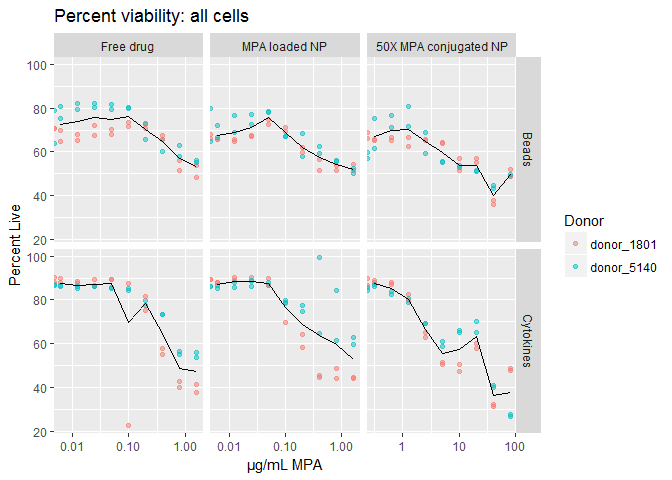
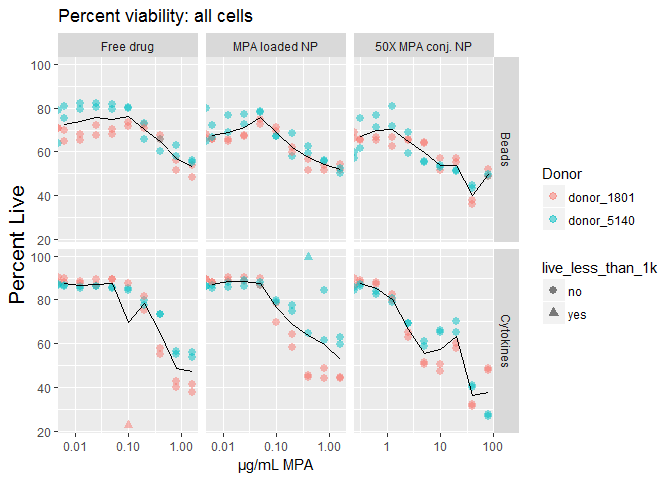
Added  indicators of cell count in plots

diff --git a/proliferation_experiments_analysis.md b/proliferation_experiments_analysis.md
@@ -39,7 +39,7 @@ All treatments were done with two replicates per donor.
 
 ### Caveats
 
-It was somewhat difficult to completely resuspend the nanoparticle formulations in the media. We vortexed and sonicated but for both formulations were left with some aggregates that we couldnt get rid of.
+It was somewhat difficult to completely resuspend the nanoparticle formulations in the media. We vortexed and sonicated but for both formulations were left with some aggregates that we couldn't get rid of.
 
 We ran out of the Ab that we were using for CD4 staining so we had to use less that the amount called for in the protocol. The results looked ok though and we were able to see clear CD4+ populations.
 
@@ -48,7 +48,9 @@ Results
 
 ### Viability
 
-In general, viability decreases as the MPA concentration increases. The decrease is somewhat more dramatic for the cytokine stimulated cells. The black line represents the average viability between the two donors.
+In general, viability decreases as the MPA concentration increases. The decrease is somewhat more dramatic for the cytokine stimulated cells.
+
+The black line represents the average viability between the two donors and the shape indicates if there were fewer than 1,000 cells in the live gate.
 
 ![](proliferation_experiments_analysis_files/figure-markdown_github/plot%20viability-1.png)
 
@@ -56,9 +58,9 @@ In general, viability decreases as the MPA concentration increases. The decrease
 
 Proliferation started out higher for the CD3/CD28 bead stimulated cells and there was also more variation between the two donors for this condition.
 
-For all conditions except cytokine-stimulated cells with MPA conjugated NP, proliferation dropped off at around 0.1*μ*g/mL for Free drug and MPA loaded NP and around 5*μ*g/mL for MPA conjugated NP.
+Proliferation dropped off at the same point in the titration for all conditions except for 50X MPA conj. NP with cytokine stim, where the pattern is different.
 
-The point for 5140 cytokine stimulated MPA loaded NP with proliferation at 100% is because there was only a single cell counted and it fell in the proliferated gate for CTV.
+The shapes indicate if there were less than 100 cells in the CD4+ or CD8+ gate.
 
 ![](proliferation_experiments_analysis_files/figure-markdown_github/plot%20percent%20proliferated%20CD4-1.png)
 
